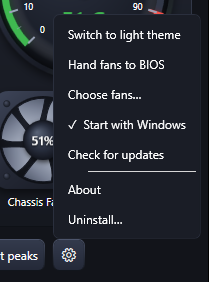
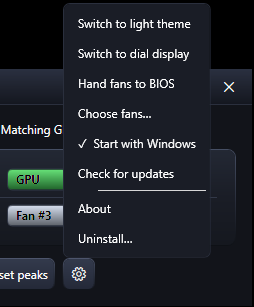
README - bar view screenshots below the hero pair, new settings menu pic

diff --git a/README.md b/README.md
@@ -10,6 +10,12 @@
   <img src="Docs/images/dashboard-light.png" width="380" alt="TOA - Fan Control — light theme" />
 </p>
 
+<p align="center">
+  <img src="Docs/images/bars-dark.png" width="380" alt="Bar view — dark theme" />
+  &nbsp;&nbsp;
+  <img src="Docs/images/bars-light.png" width="380" alt="Bar view — light theme" />
+</p>
+
 ## Why this exists
 
 Years ago I installed SpeedFan, the FanControl of its day, to cool my PC down. After installing it, I was overwhelmed with all the options, cryptic sensor names and settings I didn't understand. After about five or 10 minutes of asking myself, "What is this? What is that?," I uninstalled it. SpeedFan has been gone for a while now and its eventual successor, FanControl, is genuinely powerful… but still has the curve editors, sensor mixes and homework, that personally, I don't want.
